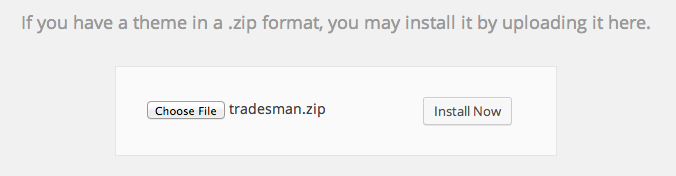
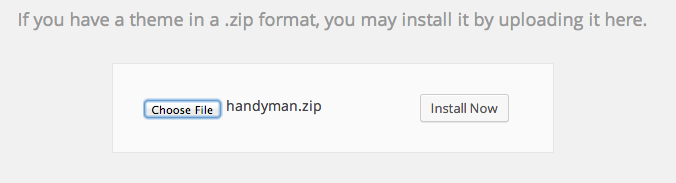
Committing changes to the documentation.

Changed region(s): [[0.0311, 0.0568, 0.963, 0.1989], [0.1864, 0.5114, 0.497, 0.6818], [0.6213, 0.5114, 0.7766, 0.7102]]

diff --git a/_documentation/documentation.html b/_documentation/documentation.html
@@ -221,7 +221,7 @@
                     <p>Thank you for buying this theme. This document provides detailed information on how to get the theme up and running quickly. If you're stuck with anything, please don't hesitate to contact us.</p>
 
                     <ul>
-                        <li>Created By: Company Name</li>
+                        <li>Created By: <a href="http://developmint.co">Developmint</a></li>
 
                         <li>Version: 1.0</li>
                     </ul>
@@ -274,11 +274,11 @@
                         </li>
 
                         <li>
-                            <p>Browse your computer to select "handyman.zip" (it's located in the zip file you downloaded after purchasing the theme). Click <strong>"Install Now"</strong> button.</p><img src="assets/img/handyman-screens/a3-screen.png" alt="Install Now" class="img-polaroid">
+                            <p>Browse your computer to select "handyman.zip" (it's located in the zip file you downloaded after purchasing the theme). Click <strong>"Install Now"</strong> button.</p><img src="assets/img/tradesman-screens/a3-screen.png" alt="Install Now" class="img-polaroid">
                         </li>
 
                         <li>
-                            <p>Once it's uploaded, click the <strong>Activate</strong> link.</p><img src="assets/img/handyman-screens/a4-screen.png" alt="Activate Theme" class="img-polaroid">
+                            <p>Once it's uploaded, click the <strong>Activate</strong> link.</p><img src="assets/img/tradesman-screens/a4-screen.png" alt="Activate Theme" class="img-polaroid">
                         </li>
                     </ol>
 
@@ -290,11 +290,11 @@
                         <li>Extract <strong>smartmag.zip</strong> and upload the <strong>smart-mag</strong> folder.</li>
 
                         <li>
-                            <p>Once it's uploaded, go to your WordPress Admin, browse to <strong>Appearance &gt; Themes.</strong></p><img src="assets/img/handyman-screens/b3-screen.png" alt="Activate Theme" class="img-polaroid">
+                            <p>Once it's uploaded, go to your WordPress Admin, browse to <strong>Appearance &gt; Themes.</strong></p><img src="assets/img/tradesman-screens/b3-screen.png" alt="Activate Theme" class="img-polaroid">
                         </li>
 
                         <li>
-                            <p>Click the <strong>Activate</strong> link.</p><img src="assets/img/handyman-screens/b4-screen.png" alt="Activate Theme" class="img-polaroid">
+                            <p>Click the <strong>Activate</strong> link.</p><img src="assets/img/tradesman-screens/b4-screen.png" alt="Activate Theme" class="img-polaroid">
                         </li>
                     </ol>
 
@@ -308,11 +308,11 @@
 
                     <ol>
                         <li>
-                            <p>Log into Admin and go to <strong>Tools &gt; Import &gt; WordPress</strong>.</p><img src="assets/img/handyman-screens/sample-data-1.png" alt="Tools Import" class="img-polaroid" style="margin-bottom: 8px;"> <img src="assets/img/handyman-screens/sample-data-1-2.png" alt="Import Wordpress" class="img-polaroid">
+                            <p>Log into Admin and go to <strong>Tools &gt; Import &gt; WordPress</strong>.</p><img src="assets/img/tradesman-screens/sample-data-1.png" alt="Tools Import" class="img-polaroid" style="margin-bottom: 8px;"> <img src="assets/img/tradesman-screens/sample-data-1-2.png" alt="Import Wordpress" class="img-polaroid">
                         </li>
 
                         <li>
-                            <p>Install the WordPress importer.</p><img src="assets/img/handyman-screens/sample-data-2.png" alt="Install Wordpress Importer" class="img-polaroid">
+                            <p>Install the WordPress importer.</p><img src="assets/img/tradesman-screens/sample-data-2.png" alt="Install Wordpress Importer" class="img-polaroid">
                         </li>
 
                         <li>

diff --git a/style.css b/style.css
@@ -1,12 +1,12 @@
-/* Theme Name: Tradesman Theme
- * Theme URI: http://tradesmanthemes.com
- * Author: The Tradesman Themes Team
- * Author URI: http://tradesmanthemes.com
+/* Theme Name: Handyman Theme
+ * Theme URI: http://developmint.co
+ * Author: The Developmint Team
+ * Author URI: http://developmint.co
  * Description: A description of the theme, its features, its purpose and anything else worth mentioning should go here. Also the Version number below should be updated as the theme evolves.
- * Version: 0.1
+ * Version: 1.0
  * License: GNU General Public License v2 or later
  * License URI: http://www.gnu.org/licenses/gpl-2.0.html
- * Tags: onetag, twotag, threetag, putwhateveryouwanthere
+ * Tags: tradesman, plumber, construction, electrician
  *
  * More information on File Headers: http://codex.wordpress.org/File_Header
  *

diff --git a/options.php b/options.php
@@ -53,7 +53,7 @@ function optionsframework_options() {
     $options = array();
 
     $options[] = array(
-        'name' => __('Tradesman Theme Settings', 'options_framework_theme'),
+        'name' => __('Handyman Theme Settings', 'options_framework_theme'),
         'type' => 'heading');
 
     $options[] = array(
